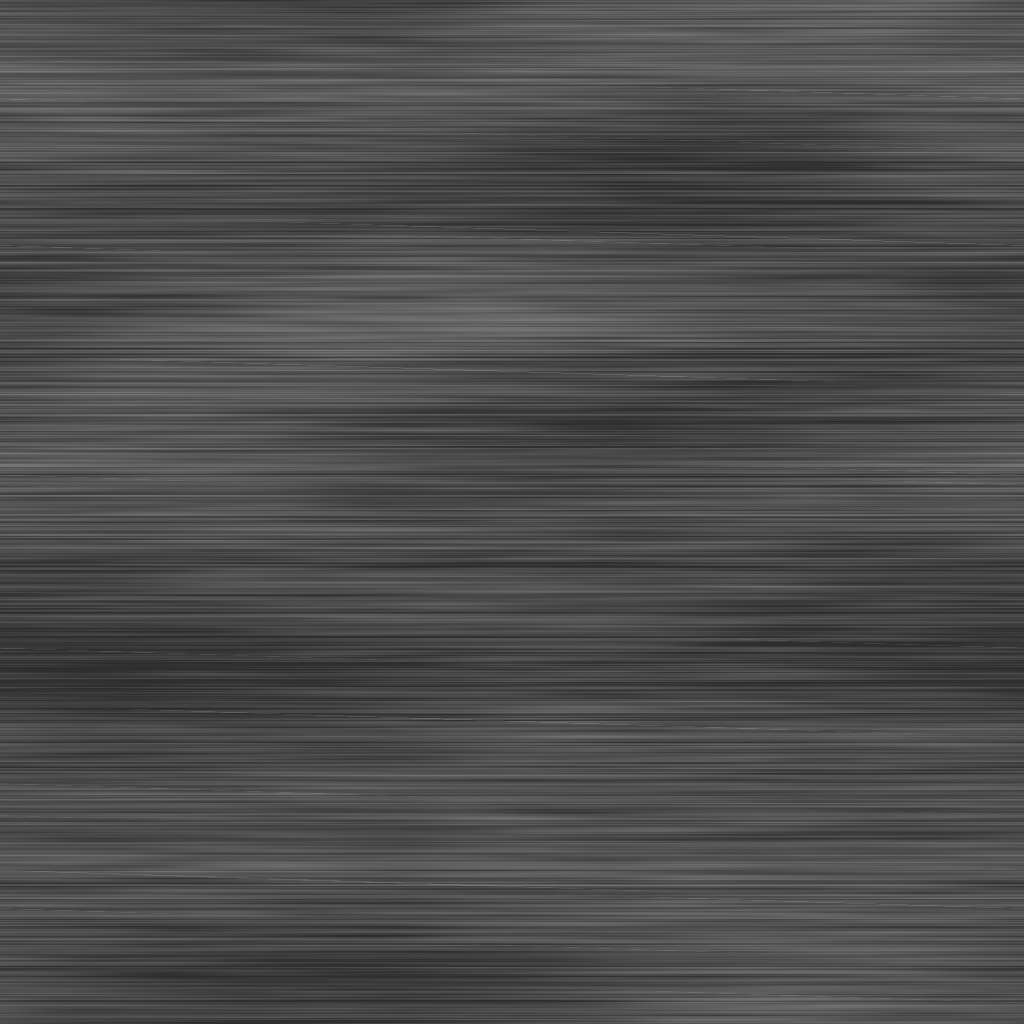
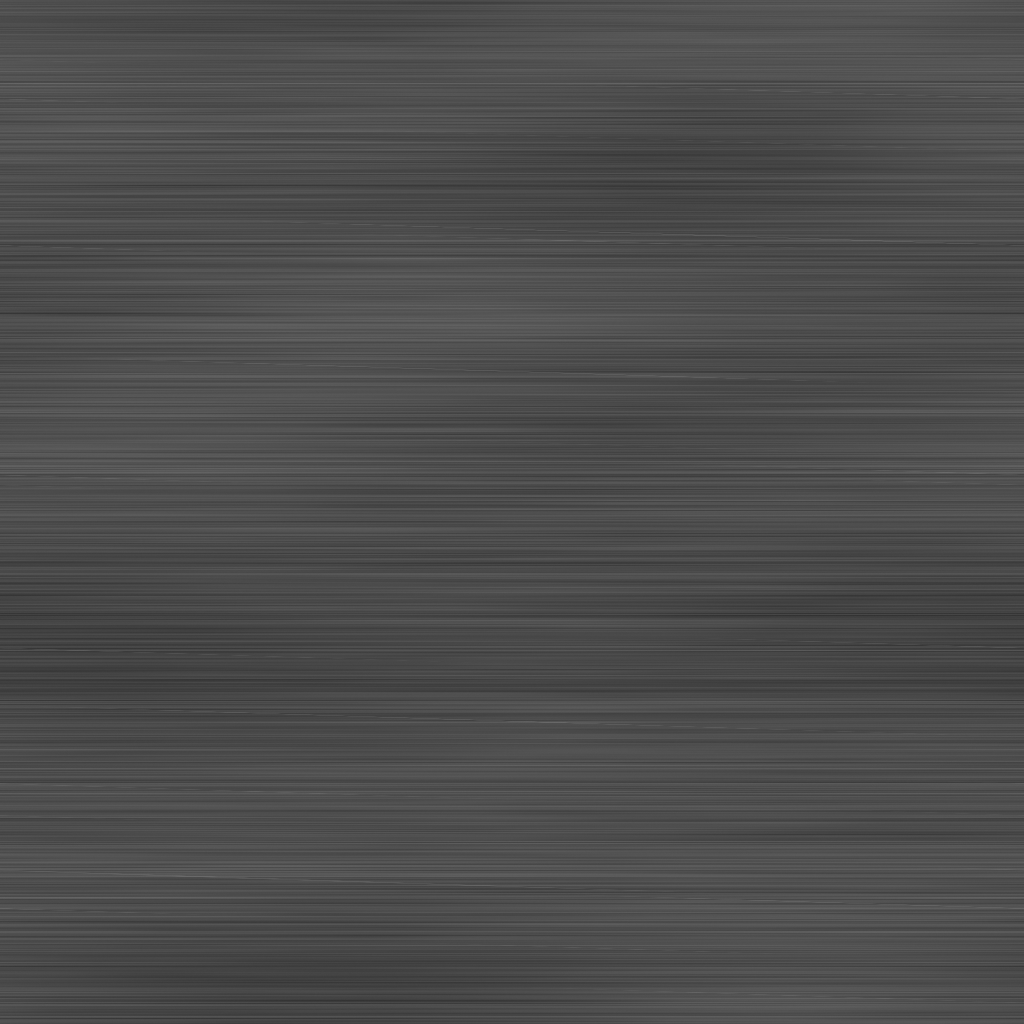
host-studio surfaces: taper-driven cathedral grain, rebuilt end grain, wool, leather, felt; Blender previews
Co-Authored by MelloB's coding agent <build@mellob.in>

diff --git a/films/host-studio/surfaces.py b/films/host-studio/surfaces.py
@@ -412,12 +412,12 @@ def tex_oakend(N, px, rng):
 
     c = lerp(col((182, 142, 98)), col((150, 108, 70)), late ** 2)
     c = lerp(c, col((140, 100, 64)), early * 0.5)
-    c = c * (1 + 0.05 * lf + 0.02 * saw)[..., None]
+    c = c * (1 + 0.02 * lf + 0.02 * saw)[..., None]
     c = lerp(c, col((48, 31, 20)), big_pores * 0.9)
     c = lerp(c, col((96, 64, 42)), small_pores * 0.7)
     c = lerp(c, col((194, 158, 116)), rays * 0.45)
     c = match_mean(c, (160, 120, 82))
-    h = -60e-6 * big_pores - 25e-6 * small_pores - 6e-6 * early + 4e-6 * rays + 2e-6 * saw + 40e-6 * gnoise(rng, shp, 15 * mm)
+    h = -60e-6 * big_pores - 25e-6 * small_pores - 6e-6 * early + 4e-6 * rays + 2e-6 * saw + 15e-6 * gnoise(rng, shp, 15 * mm)
     rough = 0.66 + 0.1 * big_pores + 0.04 * early - 0.04 * rays + 0.02 * lf
     return dict(A=c, H=h, R=np.clip(rough, 0.55, 0.85))
 
@@ -642,7 +642,7 @@ def tex_wool(N, px, rng):
     A = match_mean(c, (214, 202, 180))
     H = hn * 4.0e-3 + 0.12e-3 * fuzz + 0.2e-3 * hair
     R = 0.95 - 0.03 * sstep(0.3, 1.0, hn) + 0.02 * fuzz
-    return dict(A=A, H=H, R=np.clip(R, 0.88, 1.0), nscale=0.35)
+    return dict(A=A, H=H, R=np.clip(R, 0.88, 1.0), nscale=0.3)
 
 
 def tex_felt(N, px, rng):
@@ -659,10 +659,10 @@ def tex_felt(N, px, rng):
     mott = gnoise(rng, shp, 12 * mm) + 0.5 * gnoise(rng, shp, 3 * mm)
     grain = gnoise(rng, shp, 0.6)
     pits = sstep(2.0, 2.6, gnoise(rng, shp, 0.5 * mm))  # needle-punch holes
-    v = 1 + 0.035 * mott + 0.06 * grain + 0.2 * fib + 0.35 * light - 0.15 * pits
+    v = 1 + 0.035 * mott + 0.06 * grain + 0.1 * fib + 0.12 * light - 0.12 * pits
     c = col((31, 31, 33))[None, None] * v[..., None]
     A = match_mean(c, (31, 31, 33))
-    H = 25e-6 * fib + 15e-6 * grain + 60e-6 * gnoise(rng, shp, 2 * mm) + 0.1e-3 * mott / 3 - 30e-6 * pits
+    H = 12e-6 * fib + 8e-6 * grain + 8e-6 * gnoise(rng, shp, 2 * mm) + 15e-6 * mott - 15e-6 * pits
     R = 0.94 - 0.03 * fib + 0.02 * grain
     return dict(A=A, H=H, R=np.clip(R, 0.88, 1.0))
 
@@ -725,23 +725,21 @@ def voronoi_edges(rng, N, n, jitter=2.0):
 
 
 def tex_leather(N, px, rng):
-    """Black protein (PU) leather: a pebbled grain of ~1.5 mm cells with fine creases, a smaller grain inside, and a
-    soft satin sheen on the crowns."""
+    """Black protein (PU) leather for headphone pads: a fine pebble grain of ~0.9 mm rounded cells with soft valleys
+    between them, a smaller grain inside, a satin sheen on the crowns."""
     shp = (N, N)
     mm = 0.001 / px
-    eb, f1b, ib = voronoi_edges(rng, N, int((N / (1.5 * mm)) ** 2), 2.5)
-    es, _, _ = voronoi_edges(rng, N, int((N / (0.55 * mm)) ** 2), 1.2)
-    cellh = rng.normal(0, 1, ib.max() + 1)[ib]
-    hb = sstep(0, 3.2, eb)
-    hs = sstep(0, 1.6, es)
-    dome = 1 - np.clip(f1b / (0.9 * mm), 0, 1) ** 2
+    eb, f1b, _ = voronoi_edges(rng, N, int((N / (0.9 * mm)) ** 2), 1.6)
+    es, _, _ = voronoi_edges(rng, N, int((N / (0.35 * mm)) ** 2), 0.8)
+    hb = sstep(0, 4.5, eb) ** 0.7  # rounded crowns, soft valleys
+    hs = sstep(0, 2.0, es)
     micro = gnoise(rng, shp, 0.8)
-    H = 30e-6 * hb + 7e-6 * hs + 8e-6 * dome + 3e-6 * cellh + 2e-6 * micro + 30e-6 * gnoise(rng, shp, 40 * mm)
-    v = 1 + 0.06 * (hb - 0.7) + 0.04 * micro + 0.03 * cellh
+    H = 12e-6 * hb + 2.5e-6 * hs + 1.5e-6 * micro + 20e-6 * gnoise(rng, shp, 30 * mm)
+    v = 1 + 0.05 * (hb - 0.7) + 0.03 * micro
     c = col((19, 19, 20))[None, None] * v[..., None]
     A = match_mean(c, (19, 19, 20))
-    R = 0.48 - 0.1 * (hb - 0.7) - 0.03 * hs + 0.015 * micro
-    return dict(A=A, H=H, R=np.clip(R, 0.32, 0.62))
+    R = 0.44 - 0.06 * (hb - 0.7) - 0.02 * hs + 0.012 * micro + 0.02 * gnoise(rng, shp, 15 * mm)
+    return dict(A=A, H=H, R=np.clip(R, 0.32, 0.58))
 
 
 def tex_stoneware(N, px, rng):
@@ -785,10 +783,11 @@ def tex_brushed(N, px, rng):
     st /= st.std()
     scratch = sstep(2.4, 3.2, gnoise(rng, shp, 60 * mm, 0.06 * mm, angle=rng.normal(0, 0.02)))
     lf = gnoise(rng, shp, 30 * mm, 10 * mm)
+    fine = gnoise(rng, shp, 40 * mm, 0.05 * mm)
     a = 0.6 * (1 + 0.015 * st + 0.01 * lf + 0.03 * scratch)
     A = np.repeat(a[..., None], 3, -1).astype(F32)
-    H = 0.6e-6 * st + 1.5e-6 * scratch
-    R = 0.3 + 0.045 * st + 0.03 * lf + 0.08 * scratch
+    H = 0.5e-6 * fine + 0.25e-6 * st + 1.2e-6 * scratch
+    R = 0.3 + 0.02 * fine + 0.012 * st + 0.015 * lf + 0.05 * scratch
     return dict(A=A, H=H, R=np.clip(R, 0.18, 0.48))
 
 
@@ -924,7 +923,7 @@ def blender_preview(argv):
     ap.add_argument("--tex", required=True)
     ap.add_argument("--out", required=True)
     ap.add_argument("--only", nargs="*", default=None)
-    ap.add_argument("--samples", type=int, default=32)
+    ap.add_argument("--samples", type=int, default=128)
     ap.add_argument("--res", type=int, default=900)
     a = ap.parse_args(argv)
     tex = Path(a.tex)
@@ -992,7 +991,8 @@ def blender_preview(argv):
     key.shape = "DISK"
     key.size = 0.9
     key.energy = 700
-    kd = Vector((0.35, -1.0, 0.24)).normalized()  # from the left, ~13 degrees above the plane: grazing
+    key.color = (1.0, 0.93, 0.85)  # a little warm, as the studio's lamps
+    kd = Vector((0.45, 1.0, 0.26)).normalized()  # from the right, ~13 degrees above the plane: grazing
     ko = bpy.data.objects.new("key", key)
     sc.collection.objects.link(ko)
     ko.location = kd * 3.2
@@ -1010,7 +1010,16 @@ def blender_preview(argv):
     for attr in ("use_shadows", "use_raytracing"):
         if hasattr(sc.eevee, attr):
             setattr(sc.eevee, attr, True)
+    for attr, val in (("shadow_ray_count", 4), ("shadow_step_count", 16)):
+        if hasattr(sc.eevee, attr):
+            setattr(sc.eevee, attr, val)
+    if hasattr(key, "use_shadow_jitter"):
+        key.use_shadow_jitter = True
     sc.view_settings.view_transform = "AgX"
+    try:
+        sc.view_settings.look = "AgX - Medium High Contrast"
+    except TypeError:
+        pass
     sc.render.resolution_x = sc.render.resolution_y = a.res
     sc.render.image_settings.file_format = "PNG"
 
@@ -1069,8 +1078,8 @@ def blender_preview(argv):
         sc.render.filepath = str(out / f"{name}_wide.png")
         bpy.ops.render.render(write_still=True)
         w = close_width(cover)
-        # close-up on the box's front-right top edge and the plane in front of it
-        look((0.03 - w * 0.12, -0.075 + w * 0.05, 0.11 - w * 0.25), (1.0, 0.55, 0.6), w)
+        # close-up on the box's front-right top corner, the lit side and the plane beside it
+        look((0.03 - w * 0.05, -0.075 + w * 0.12, 0.12 - w * 0.18), (1.0, 0.8, 0.65), w)
         sc.render.filepath = str(out / f"{name}_close.png")
         bpy.ops.render.render(write_still=True)
 
@@ -1078,6 +1087,7 @@ def blender_preview(argv):
 if __name__ == "__main__":
     try:
         import bpy  # noqa: F401
-        blender_preview(sys.argv[sys.argv.index("--") + 1:] if "--" in sys.argv else [])
     except ImportError:
         main()
+    else:
+        blender_preview(sys.argv[sys.argv.index("--") + 1:] if "--" in sys.argv else [])
